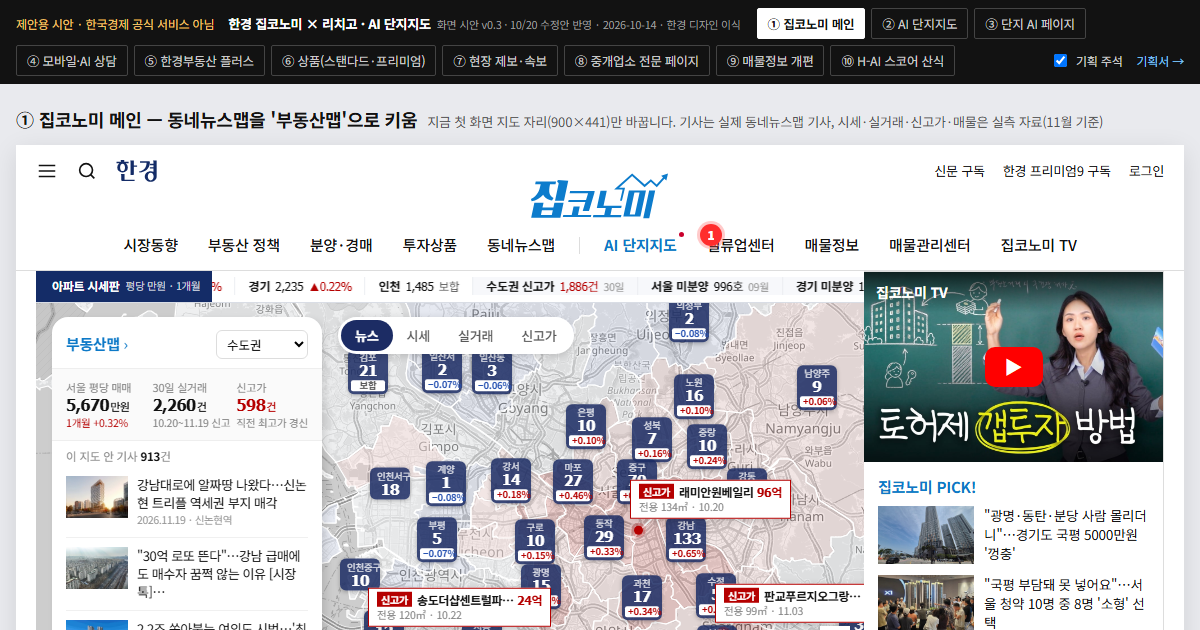
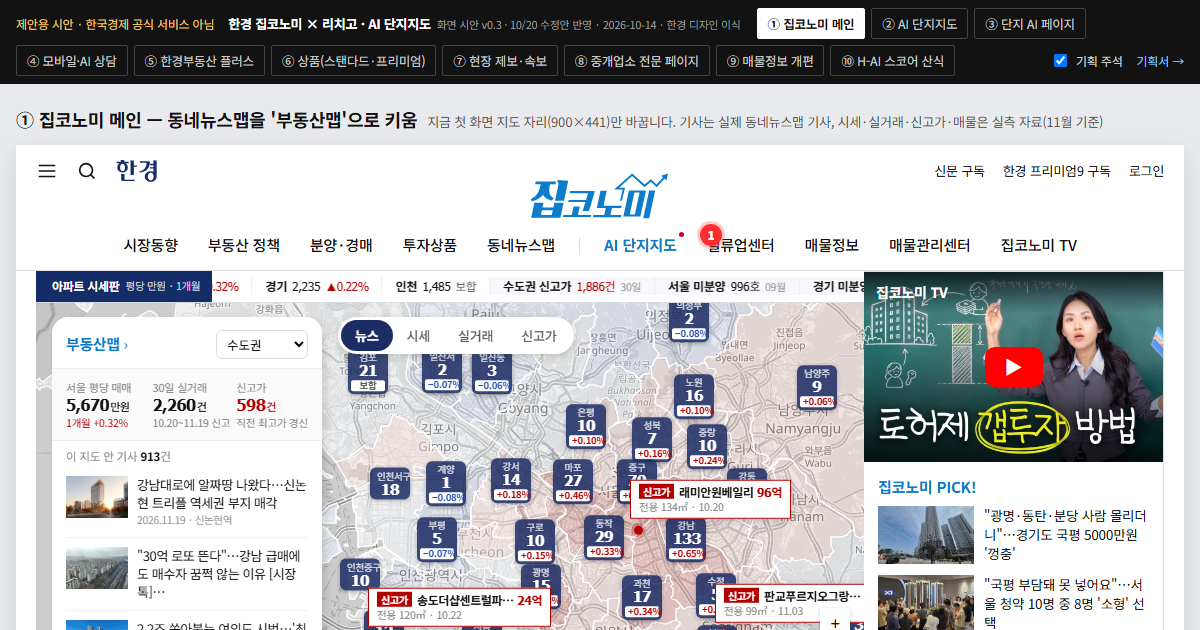
데모 갱신 (원본 b7ebfd7, 2026-11-20 16:27)

Changed region(s): [[0.185, 0.4222, 0.7092, 0.4825], [0.6783, 0.9651, 0.7092, 0.9952]]

diff --git a/basemap.js b/basemap.js
@@ -1,0 +1,66 @@
+/* 바탕 지도: 네이버 지도(실서비스와 같은 바탕) → 안 되면 OpenStreetMap
+ * - 색칠·핀·카드는 그대로 Leaflet 이 그리고, 네이버 지도는 그 아래에서 같은 위치·배율로 따라 움직인다(조작은 Leaflet 이 받음).
+ * - 네이버 지도는 등록한 주소(kkwon91.github.io)에서만 열린다. 파일로 열거나 인증이 실패하면 OSM 으로 바꾼다.
+ *   파일(file:)로 열면 OSM 본 서버가 출처 없는 요청을 막아서 OSM 독일 서버를 쓴다.
+ */
+(function () {
+  const NAVER_ID = 'ercr11gfa6';
+  const useNaver = location.protocol === 'https:' || location.protocol === 'http:';
+  window.HK_TILE_URL = location.protocol === 'file:' ? 'https://tile.openstreetmap.de/{z}/{x}/{y}.png' : 'https://tile.openstreetmap.org/{z}/{x}/{y}.png';
+  if (useNaver) document.write(`<script src="https://oapi.map.naver.com/openapi/v3/maps.js?ncpKeyId=${NAVER_ID}"><\/script>`);
+
+  const bases = [];
+  let failed = false;
+  function toOsm(b) {
+    if (b.osm) return;
+    if (b.div) { b.div.remove(); b.div = null; }
+    if (b.lm.attributionControl && !b.lm.attributionControl._map) b.lm.attributionControl.addTo(b.lm);
+    b.osm = L.tileLayer(window.HK_TILE_URL, {maxZoom: 19, className: b.opt.className || '', attribution: '© OpenStreetMap'}).addTo(b.lm);
+  }
+  // 네이버 인증 실패 시 네이버가 부르는 전역 함수
+  window.navermap_authFailure = function () { failed = true; bases.forEach(toOsm); };
+
+  window.addBase = function (lm, opt = {}) {
+    const b = {lm, opt};
+    bases.push(b);
+    lm.attributionControl && lm.attributionControl.setPrefix(false);
+    if (!useNaver || failed || !(window.naver && naver.maps)) { toOsm(b); return b; }
+    const c = lm.getContainer();
+    const div = document.createElement('div');
+    div.className = 'hk-naver' + (opt.gray ? ' gray' : '');
+    div.style.cssText = 'position:absolute;inset:0;z-index:0;pointer-events:none';
+    c.insertBefore(div, c.firstChild);
+    b.div = div;
+    // 네이버 지도가 쓰는 배율은 정수 → Leaflet 도 정수 배율, 확대 애니메이션 끔(둘이 어긋나지 않게)
+    lm.options.zoomSnap = 1; lm.options.zoomDelta = 1; lm.options.zoomAnimation = false;
+    lm._zoomAnimated = false;
+    // 지도 출처 표기는 네이버 지도가 오른쪽 아래에 직접 띄움
+    lm.attributionControl && lm.attributionControl.remove();
+    // Leaflet 위치가 정해진 뒤(fitBounds/setView 이후)에 네이버 지도를 만든다
+    lm.whenReady(() => { if (b.div) initNaver(b, div); });
+    return b;
+  };
+  function initNaver(b, div) {
+    const lm = b.lm;
+    const ctr = lm.getCenter();
+    const nm = new naver.maps.Map(div, {
+      center: new naver.maps.LatLng(ctr.lat, ctr.lng), zoom: Math.round(lm.getZoom()),
+      draggable: false, pinchZoom: false, scrollWheel: false, keyboardShortcuts: false, disableDoubleClickZoom: true, disableDoubleTapZoom: true, disableTwoFingerTapZoom: true,
+      zoomControl: false, mapTypeControl: false, scaleControl: false,
+      logoControl: true, logoControlOptions: {position: naver.maps.Position.BOTTOM_RIGHT},
+      mapDataControl: true, mapDataControlOptions: {position: naver.maps.Position.BOTTOM_RIGHT},
+      minZoom: 6, maxZoom: 19, background: '#f2f3f5'
+    });
+    b.nm = nm;
+    const sync = () => {
+      if (!b.div) return;
+      const p = lm.getCenter();
+      nm.setCenter(new naver.maps.LatLng(p.lat, p.lng));
+      nm.setZoom(Math.round(lm.getZoom()), false);
+    };
+    const resize = () => { if (!b.div) return; const s = lm.getSize(); nm.setSize(new naver.maps.Size(s.x, s.y)); sync(); };
+    lm.on('move zoom viewreset', sync);
+    lm.on('resize', resize);
+    b.resize = resize;
+  }
+})();

diff --git a/index.html b/index.html
@@ -18,7 +18,7 @@
 <script src="score.js"></script>
 <script src="data.js"></script>
 <script src="news.js"></script>
-<script>/* 파일로 열면(file:) 출처 정보가 없어 OSM 본 서버가 타일을 막음 → 출처 없이 받는 OSM 독일 서버 */window.HK_TILE_URL = location.protocol === 'file:' ? 'https://tile.openstreetmap.de/{z}/{x}/{y}.png' : 'https://tile.openstreetmap.org/{z}/{x}/{y}.png';</script>
+<script src="basemap.js"></script>
 <script src="map.js"></script>
 <script src="map1.js"></script>
 <link rel="stylesheet" href="map1.css">
@@ -573,9 +573,9 @@ function pinHtml(d, mode, sel, scv = d.score) {
   return `<div class="pin ${sel ? 'sel' : ''}">${m ? face(m.name, 22, '').replace('class="face"', 'class="face mav"') : ''}${body}</div>`;
 }
 function makeMap(el, zoomPos = 'bottomright') {
-  const map = L.map(el, {zoomControl: false, scrollWheelZoom: false, zoomSnap: .25}).setView([37.505, 127.1], 13);
+  const map = L.map(el, {zoomControl: false, scrollWheelZoom: false, zoomSnap: 1, zoomAnimation: false}).setView([37.505, 127.1], 13);
   L.control.zoom({position: zoomPos}).addTo(map);
-  L.tileLayer(window.HK_TILE_URL, {maxZoom: 19, attribution: '© OpenStreetMap'}).addTo(map);
+  addBase(map);
   return map;
 }
 

diff --git a/map1.js b/map1.js
@@ -78,9 +78,8 @@ window.PMAP = (function () {
 
   function mount(container) {
     el = container; el.innerHTML = html();
-    map = L.map('pmMap', {zoomControl: false, scrollWheelZoom: false, zoomSnap: .5, minZoom: 9, maxZoom: 17, attributionControl: true, preferCanvas: false});
-    L.tileLayer(window.HK_TILE_URL, {maxZoom: 19, className: 'pm-tiles', attribution: '© OpenStreetMap'}).addTo(map);
-    map.attributionControl.setPrefix(false);
+    map = L.map('pmMap', {zoomControl: false, scrollWheelZoom: false, zoomSnap: 1, zoomAnimation: false, minZoom: 9, maxZoom: 17, attributionControl: true, preferCanvas: false});
+    window.addBase(map, {gray: true, className: 'pm-tiles'});
     map.fitBounds([[37.36, 126.62], [37.72, 127.24]], {paddingTopLeft: [300, 40], paddingBottomRight: [10, 10]});
     gSgg = L.geoJSON({type: 'FeatureCollection', features: M.geo.sgg}, {style: f => style(R[f.properties.code]), onEachFeature: bindPoly});
     gEmd = L.geoJSON({type: 'FeatureCollection', features: M.geo.emd}, {style: f => style(R[f.properties.code]), onEachFeature: bindPoly});

diff --git a/map1.css b/map1.css
@@ -152,3 +152,5 @@
 .pm-vol{margin-top:10px}
 .pm-vol .h{display:flex;justify-content:space-between;font-size:12px;font-weight:700;margin-bottom:2px}
 .pm-vol small{font-weight:400;color:#999;font-size:10.5px}
+.pm .hk-naver.gray{filter:grayscale(.8) brightness(1.04) contrast(.92)}
+.pm-zoom{bottom:44px}
